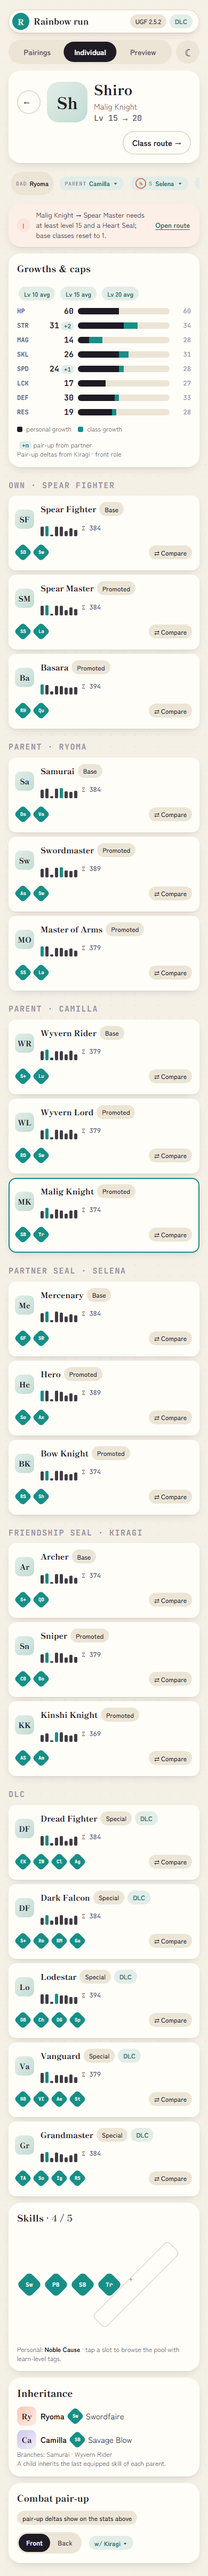
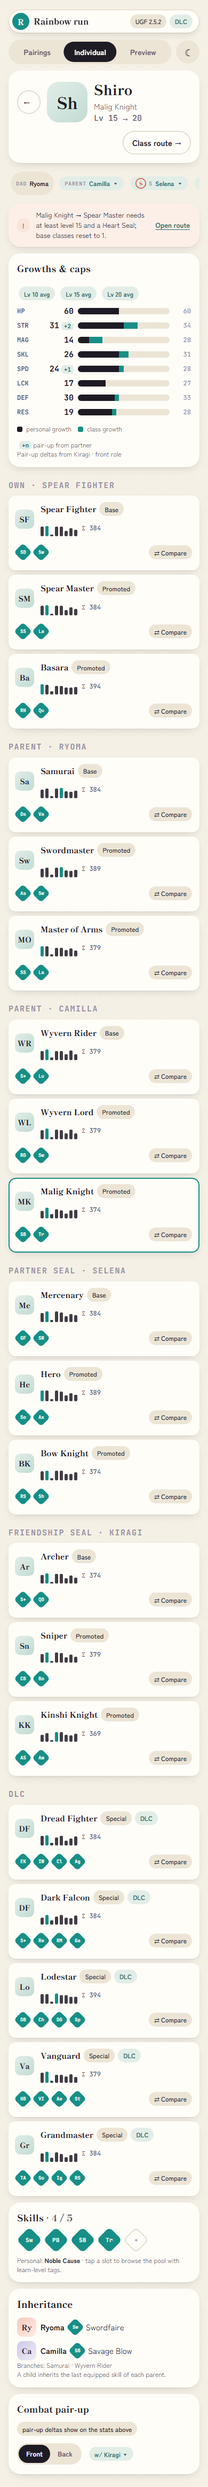
P: fix .empty class collision and refresh screenshots
The EmptyState wrapper reused .empty, which also matched .skill.empty and stretched the fifth skill slot to 200px. Renamed to .emptystate; all 22 screenshots regenerated from the fixed build.

Changed region(s): [[0.0308, 0.0, 0.9846, 0.9974], [0.1846, 0.0, 0.2462, 0.0312], [0.0923, 0.0, 0.1231, 0.0312]]

diff --git a/src/styles/components.css b/src/styles/components.css
@@ -636,8 +636,8 @@
   padding: var(--s3) var(--s4);
 }
 .warntext { font-size: 13px; flex: 1; min-width: 160px; }
-.empty { display: grid; gap: var(--s2); justify-items: start; min-height: 200px; align-content: center; }
-.empty h3 { font-size: 22px; }
+.emptystate { display: grid; gap: var(--s2); justify-items: start; min-height: 200px; align-content: center; }
+.emptystate h3 { font-size: 22px; }
 .conflictlist { display: grid; gap: var(--s2); }
 .conflict {
   display: flex;

diff --git a/src/components/EmptyState.tsx b/src/components/EmptyState.tsx
@@ -8,7 +8,7 @@ export interface EmptyStateProps {
 
 export function EmptyState({ kicker, title, body, actionLabel, onAction }: EmptyStateProps) {
   return (
-    <section className="card empty">
+    <section className="card emptystate">
       <span className="kicker">{kicker}</span>
       <h3>{title}</h3>
       <p className="muted">{body}</p>
